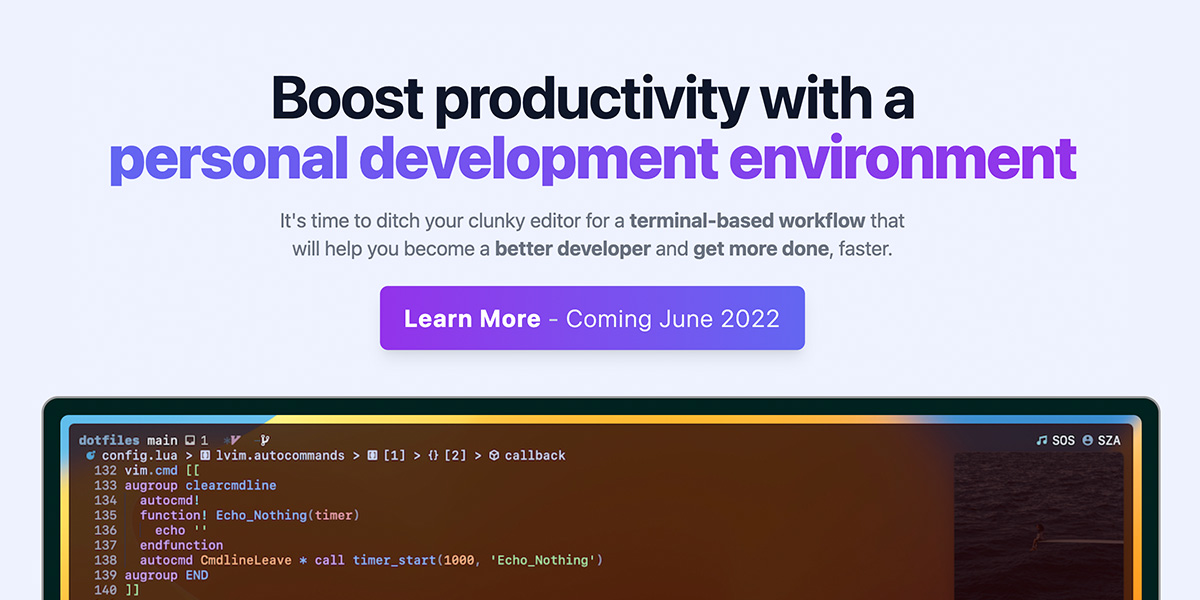
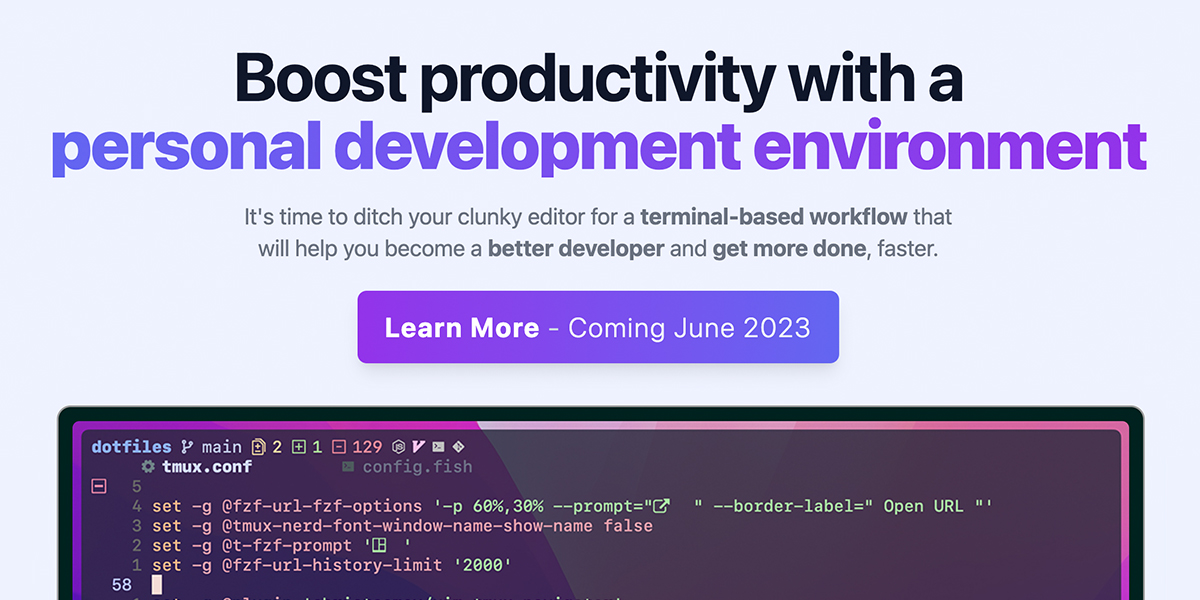
fix: date and pde screenshot

diff --git a/src/components/cta/PdeCta.tsx b/src/components/cta/PdeCta.tsx
@@ -31,7 +31,7 @@ const PdeCta: FunctionalComponent = () => {
               ])}
             >
               Learn More <span class="font-light text-slate-300">-</span>
-              <span class="font-light text-slate-100"> Coming June 2022</span>
+              <span class="font-light text-slate-100"> Coming June 2023</span>
             </a>
           </div>
         </div>
